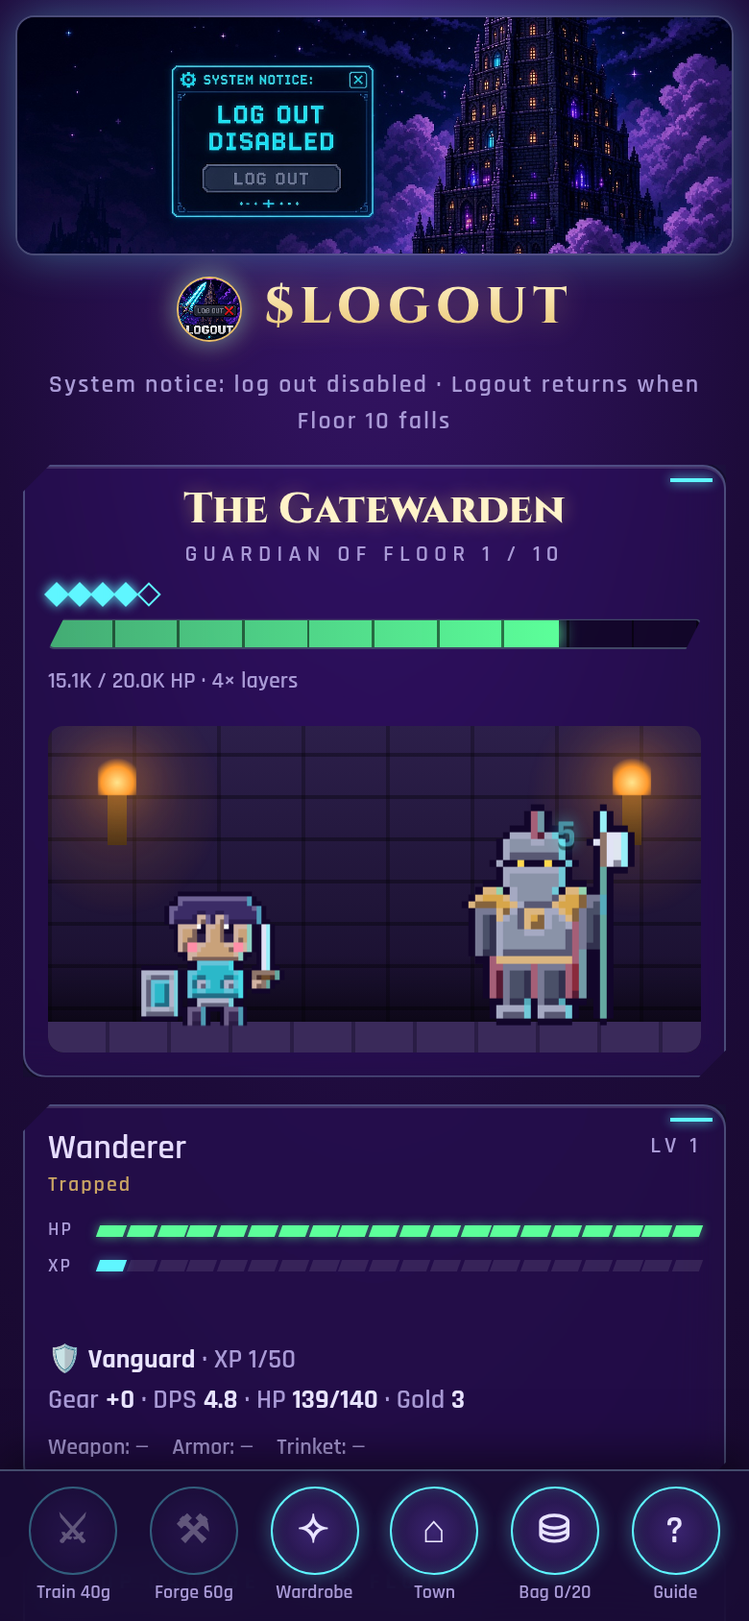
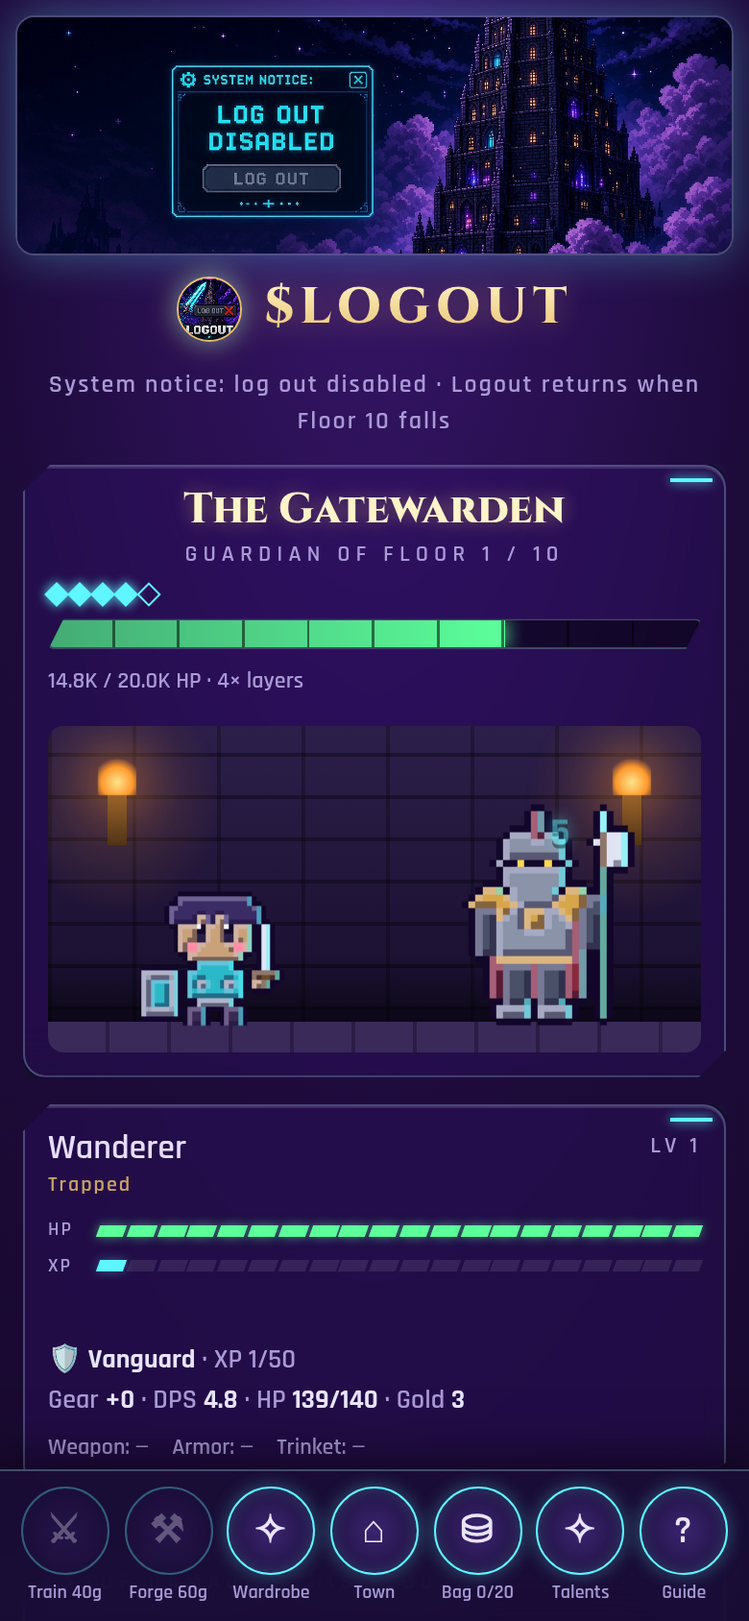
Talent trees: 3 branches per class, points per level, respec, save v5

diff --git a/js/main.js b/js/main.js
@@ -1,8 +1,9 @@
 import { effectsOf, CLASSES, newHero, heroDps, levelCost, gearCost, accrue, offlineProgress, applyXp, heroHp, heroMaxHp, isWorn, effectiveDps, buffsOf, bossName, fmt, fmtDur, xpToNext } from './game.js';
 import { makeBackend } from './storage.js';
-import { innCost, rest, shopStock, buy as shopBuy, soldOut, npcGrid } from './town.js';
+import { priceFor, innCost, rest, shopStock, buy as shopBuy, soldOut, npcGrid } from './town.js';
 import { sprite } from './sprites.js';
-import { isSpecialSlot } from './floors.js';
+import { isSpecialSlot, bossInfo } from './floors.js';
+import { treeOf, nodeById, canLearn, learn, freePoints, totalPoints, spentIn, respec, respecCost } from './talents.js';
 import { TRICKLE, trickleDrops, grantDrops, equipItem, salvageItem, salvageValue, rarityOf, statLabel, INV_SIZE, GEAR_SLOTS } from './loot.js';
 import { OFFLINE_CAP_HOURS, MAX_FLOOR } from '../config.js';
 import { bossSprite, bossIsBig, heroSprite } from './sprites.js';
@@ -43,6 +44,7 @@ async function boot() {
   $('maxf').textContent = MAX_FLOOR;
   be = await makeBackend(); save = migrateSave(await be.loadSave()); if (save) delete save.ctx; // live-only context, never trusted from storage
   if (!save) return showCreate();
+  { const f0 = (await be.getFloor()).floor, bi = bossInfo(f0); save.ctx = { element: bi.lootElement, special: isSpecialSlot(f0) }; } // offline maths sees the same floor context
   const p = offlineProgress(save, Date.now(), OFFLINE_CAP_HOURS), cap = p.cap, h0 = save.heroes[0];
   save.gold += p.gold; const ups = applyXp(save.heroes, p.xp); pending += p.damage;
   const offFloor = (await be.getFloor()).floor, trickled = trickleDrops(save, p.secs, offFloor, TRICKLE.offlineMax);
@@ -90,16 +92,16 @@ async function startGame(fresh = false) {
   floor = await be.getFloor(); log(`${save.heroes[0].name} awoke on Floor ${floor.floor}. The guardian stirs.`); log('System notice: log out disabled.');
   if (fresh) { notice('Log out disabled'); setTimeout(() => notice(`Floor ${floor.floor} is open`), 900); } // no replayed notices on reload
   $('lvl').onclick = () => buy('level'); $('gear').onclick = () => buy('gear'); $('wardrobeBtn').onclick = openWardrobe;
-  $('townBtn').onclick = openTown; $('helpBtn').onclick = () => tourShow(0); $('bagBtn').onclick = openBag; placeDock();
+  $('townBtn').onclick = openTown; $('helpBtn').onclick = () => tourShow(0); $('bagBtn').onclick = openBag; $('talBtn').onclick = () => { talSel = null; openTalents(); }; placeDock();
   setInterval(tick, 1000); setInterval(sync, 5000); render(); renderLb();
   if (!save.tutorialSeen) startTour(); // right after creation, and once for older saves
 }
 function tick() {
-  save.ctx = { bossPct: floor.maxHp ? floor.hp / floor.maxHp : 1, special: isSpecialSlot(floor.floor), sessionSecs: (Date.now() - sessionStart) / 1000 };
+  save.ctx = { bossPct: floor.maxHp ? floor.hp / floor.maxHp : 1, special: isSpecialSlot(floor.floor), element: bossInfo(floor.floor).lootElement, sessionSecs: (Date.now() - sessionStart) / 1000 };
   const p = accrue(save, Date.now(), OFFLINE_CAP_HOURS), fx = effectsOf(save.heroes[0]);
   if (fx.has('whisper') && Date.now() - lastWhisper > 120000) { lastWhisper = Date.now(); log(WHISPERS[Math.floor(Math.random() * WHISPERS.length)], '#b9a8ff'); }
   save.gold += p.gold; recent.dmg += p.damage; recent.gold += p.gold; recent.xp += p.xp; pending += p.damage; floor.hp = Math.max(0, floor.hp - p.damage);
-  if (applyXp(save.heroes, p.xp).length) { log(`System notice: level ${save.heroes[0].level} reached.`); notice(`Level ${save.heroes[0].level} reached`); }
+  if (applyXp(save.heroes, p.xp).length) { log(`System notice: level ${save.heroes[0].level} reached.`); notice(`Level ${save.heroes[0].level} reached · +1 talent point`); }
   for (const it of trickleDrops(save, p.secs, floor.floor, p.secs > 2 ? TRICKLE.offlineMax : Infinity)) { const R = rarityOf(it.rarity); log(`Loot · ${R.label} ${it.name}${it.salvaged ? ' (bag full: salvaged)' : ''}`, R.color); notice(`${R.label} find — ${it.name}`, R.color); }
   if (p.damage > 0) { hits++; if (fx.has('tenth') && hits % 10 === 0) { hitFx(p.damage); log('The Tenth Bell rings — double hit.', '#7ff6ff'); } hitFx(p.damage); } $('boss').classList.add('hit'); setTimeout(() => $('boss').classList.remove('hit'), 120); render();
 }
@@ -141,6 +143,7 @@ function render() {
   H('stats').innerHTML = `${CLASSES[h.cls].icon} <b>${h.cls}</b> · XP ${h.xp}/${xpToNext(h.level)}<br>Gear <b>+${h.gear}</b> · DPS <b>${effectiveDps(save).toFixed(1)}</b> · HP <b>${Math.round(heroHp(h))}/${heroMaxHp(h)}</b> · Gold <b>${fmt(save.gold)}</b>`;
   H('lvlL').textContent = `Train ${fmt(levelCost(h))}g`; $('lvl').title = `Train: +1 level for ${fmt(levelCost(h))} gold`; $('lvl').disabled = save.gold < levelCost(h);
   H('equipped').innerHTML = GEAR_SLOTS.map(s => { const it = h.equip?.[s]; return `<span class="eq" style="${it ? `color:${rarityOf(it.rarity).color}` : ''}">${s[0].toUpperCase() + s.slice(1)}: ${it ? esc(it.name) : '—'}</span>`; }).join('');
+  { const fp = freePoints(h); const tb = $('talBadge'); if (tb.hidden !== !(fp > 0)) tb.hidden = !(fp > 0); if (tb.textContent !== String(fp)) tb.textContent = fp; }
   H('bagL').textContent = `Bag ${save.inv.length}/${INV_SIZE}`; $('gear').title = 'Forge: temper your weapon, +15% damage per tier';
   H('gearL').textContent = `Forge ${fmt(gearCost(h))}g`; $('gear').disabled = save.gold < gearCost(h);
 }
@@ -162,7 +165,7 @@ function openTown() {
   const left = st.endsAt - now; $('shopTimer').textContent = `New stock in ${fmtDur(left / 1000)}`;
   $('shopList').innerHTML = st.items.map((it, i) => { const R = it.item ? rarityOf(it.item.rarity) : null, out = soldOut(save, st, i);
     return `<div class="srow" ${R ? `style="--rc:${R.color}"` : ''}><div><b style="${R ? `color:${R.color}` : ''}">${esc(it.name)}</b><small>${R ? `${R.label} ${it.item.slot} · ${Object.entries(it.item.stats).map(([k, v]) => statLabel(k, v)).join(' · ')}` : esc(it.desc)}</small></div>
-      <button data-i="${i}" ${out || save.gold < it.price ? 'disabled' : ''}>${out ? 'Sold' : `${fmt(it.price)}g`}</button></div>`; }).join('');
+      <button data-i="${i}" ${out || save.gold < priceFor(save, it) ? 'disabled' : ''}>${out ? 'Sold' : `${fmt(priceFor(save, it))}g`}</button></div>`; }).join('');
   $('shopList').onclick = async e => { const btn = e.target.closest('button[data-i]'); if (!btn) return; const got = shopBuy(save, f, Date.now(), +btn.dataset.i);
     if (got) { log(`Bought ${got}.`); notice(`Bought · ${got}`); await be.saveSave(save); render(); } openTown(); };
   $('townGold').textContent = `Gold ${fmt(save.gold)}`;
@@ -217,3 +220,22 @@ const dockMQ = matchMedia('(max-width: 640px)'), dockHome = document.createComme
 function placeDock() { const d = $('dock'); if (dockMQ.matches) { if (d.parentNode !== document.body) { d.replaceWith(dockHome); document.body.append(d); } } else if (dockHome.parentNode) dockHome.replaceWith(d); }
 dockMQ.addEventListener('change', placeDock);
 boot();
+
+// ---- Talents: glass-HUD tree, tap a node for its tooltip, Learn / Respec.
+let talSel = null;
+function openTalents() {
+  const h = save.heroes[0], fp = freePoints(h), f = floor.floor, rc = respecCost(h, f);
+  $('talPts').textContent = `· ${h.cls} · ${fp} point${fp === 1 ? '' : 's'} free · ${totalPoints(h)} total`;
+  $('talTree').innerHTML = treeOf(h.cls).map(b => `<section class="tbranch"><h3>${esc(b.name)} <small>${spentIn(h, b.id)} pts</small></h3><p class="sub">${esc(b.blurb)}</p>${b.nodes.map(n => {
+    const r = h.talents?.[n.id] || 0, why = canLearn(h, n.id), gated = why && why.startsWith('needs');
+    return `<button class="tnode ${r >= n.max ? 'max' : ''} ${gated ? 'gated' : ''} ${!why ? 'can' : ''} ${n.capstone ? 'cap' : ''} ${talSel === n.id ? 'sel' : ''}" data-id="${n.id}" aria-label="${esc(n.name)} ${r}/${n.max}"><span>${esc(n.name)}</span><b>${r}/${n.max}</b></button>`; }).join('')}</section>`).join('');
+  const n = talSel && nodeById(talSel);
+  if (n) { const r = h.talents?.[n.id] || 0, why = canLearn(h, n.id);
+    $('talTip').innerHTML = `<b>${esc(n.name)}</b>${n.capstone ? ' <small class="capt">capstone</small>' : ''} <small>rank ${r}/${n.max}${n.req ? ` · needs ${n.req} pts in branch` : ''}</small><p>${esc(n.desc)}</p><button id="talLearn" class="cta" ${why ? 'disabled' : ''}>${why ? esc(why) : 'Learn'}</button>`;
+    $('talLearn').onclick = async () => { if (learn(h, n.id)) { log(`System notice: talent learned — ${n.name} (${(h.talents[n.id])}/${n.max}).`); await be.saveSave(save); render(); openTalents(); } };
+  } else $('talTip').innerHTML = '<p class="sub">Tap a node to see what it does. Later nodes unlock after you spend points in that branch.</p>';
+  $('talRespec').textContent = rc ? `Respec · ${fmt(rc)}g` : 'Respec · free once'; $('talRespec').disabled = save.gold < rc || !Object.keys(h.talents || {}).length;
+  $('talRespec').onclick = async () => { if (respec(save, f)) { log('System notice: talents reset. All points refunded.'); talSel = null; await be.saveSave(save); render(); openTalents(); } };
+  $('talTree').onclick = e => { const b = e.target.closest('.tnode'); if (b) { talSel = b.dataset.id; openTalents(); } };
+  if (!$('talents').open) $('talents').showModal();
+}

diff --git a/js/talents.js b/js/talents.js
@@ -1,0 +1,108 @@
+// Talent trees: 3 classes × 3 branches × 5 nodes. Pure (no DOM). Effects feed the same stat pipeline as gear and Unique weapons (see talentBonus).
+import { baseHp } from './floors.js';
+// eff: per-rank stat contributions. Keys: dpsPct goldPct xpPct capH hpPct drainPct regenPct layerPct rallyPct innPct shopPct offlinePct
+//      lootPct salvagePct doublePct elementPct restedPct restedMulPct bonusPts lowMulPct
+const N = (id, name, desc, max, eff) => ({ id, name, desc, max, eff });
+const B = (id, name, blurb, nodes) => ({ id, name, blurb, nodes: nodes.map((n, i) => ({ ...n, tier: i, req: i * 2, capstone: i === nodes.length - 1 })) });
+export const TREES = {
+  Vanguard: [
+    B('bulwark', 'Bulwark', 'Stand. Endure. Out-wait the tower.', [
+      N('vg-thick', 'Thickened Hide', 'System notice: max HP +6% per rank.', 3, { hpPct: 6 }),
+      N('vg-brace', 'Braced Stance', 'System notice: the guardian drains you 6% slower per rank.', 3, { drainPct: 6 }),
+      N('vg-second', 'Second Wind', 'System notice: recover 0.6% max HP per minute per rank.', 2, { regenPct: 0.6 }),
+      N('vg-oath', 'Shield Oath', 'System notice: max HP +8% and drain −5% per rank.', 2, { hpPct: 8, drainPct: 5 }),
+      N('vg-iron', 'Iron Will', 'Capstone. System notice: worn down only cuts DPS to 75%.', 1, { lowMulPct: 25 }),
+    ]),
+    B('warlord', 'Warlord', 'Command the shared fight.', [
+      N('wl-cleave', 'Layer Cleave', 'System notice: +8% DPS on the guardian\'s last HP layer per rank.', 3, { layerPct: 8 }),
+      N('wl-rally', 'Rallying Cry', 'System notice: +3% DPS per rank. Others fight harder beside you.', 3, { rallyPct: 3 }),
+      N('wl-banner', 'War Banner', 'System notice: +4% gold and XP per rank from the shared kill.', 2, { goldPct: 4, xpPct: 4 }),
+      N('wl-sunder', 'Sunder Plate', 'System notice: +5% DPS per rank.', 2, { dpsPct: 5 }),
+      N('wl-breaker', 'Floor Breaker', 'Capstone. System notice: +30% DPS on the last HP layer.', 1, { layerPct: 30 }),
+    ]),
+    B('quartermaster', 'Quartermaster', 'An army marches on its coin.', [
+      N('qm-purse', 'Heavy Purse', 'System notice: +5% gold per rank.', 3, { goldPct: 5 }),
+      N('qm-haggle', 'Haggler', 'System notice: shop prices −5% per rank.', 3, { shopPct: 5 }),
+      N('qm-inn', 'Regular at the Inn', 'System notice: inn costs −10% per rank.', 2, { innPct: 10 }),
+      N('qm-supply', 'Supply Lines', 'System notice: Well Rested lasts +15% longer per rank.', 2, { restedPct: 15 }),
+      N('qm-ledger', 'Golden Ledger', 'Capstone. System notice: +20% gold, salvage +25%.', 1, { goldPct: 20, salvagePct: 25 }),
+    ]),
+  ],
+  Blade: [
+    B('edge', 'Edge', 'Faster. Sharper. Again.', [
+      N('ed-hone', 'Honed Steel', 'System notice: +5% DPS per rank.', 3, { dpsPct: 5 }),
+      N('ed-flurry', 'Flurry', 'System notice: 3% of hits land twice per rank.', 3, { doublePct: 3 }),
+      N('ed-weak', 'Find the Seam', 'System notice: +8% DPS on the last HP layer per rank.', 2, { layerPct: 8 }),
+      N('ed-blur', 'Blur', 'System notice: +6% DPS per rank.', 2, { dpsPct: 6 }),
+      N('ed-cuts', 'Thousand Cuts', 'Capstone. System notice: 15% of hits land twice.', 1, { doublePct: 15 }),
+    ]),
+    B('shadowstep', 'Shadowstep', 'Fight on while you are gone.', [
+      N('sh-idle', 'Idle Hands', 'System notice: +5% gains while offline per rank.', 3, { offlinePct: 5 }),
+      N('sh-vigil', 'Long Vigil', 'System notice: +1h offline cap per rank.', 3, { capH: 1 }),
+      N('sh-quiet', 'Quiet Breathing', 'System notice: drain −5% per rank.', 2, { drainPct: 5 }),
+      N('sh-ghost', 'Ghost Shift', 'System notice: +2h offline cap per rank.', 2, { capH: 2 }),
+      N('sh-phantom', 'Phantom Watch', 'Capstone. System notice: +20% gains while offline.', 1, { offlinePct: 20 }),
+    ]),
+    B('plunder', 'Plunder', 'Everything the tower drops is yours.', [
+      N('pl-eye', 'Keen Eye', 'System notice: +6% gear drop chance per rank.', 3, { lootPct: 6 }),
+      N('pl-scrap', 'Scrapper', 'System notice: salvage pays +10% per rank.', 3, { salvagePct: 10 }),
+      N('pl-pocket', 'Deep Pockets', 'System notice: +4% gold per rank.', 2, { goldPct: 4 }),
+      N('pl-fence', 'Black Market', 'System notice: shop prices −6% per rank.', 2, { shopPct: 6 }),
+      N('pl-sense', 'Treasure Sense', 'Capstone. System notice: +25% gear drop chance.', 1, { lootPct: 25 }),
+    ]),
+  ],
+  Arcanist: [
+    B('ember', 'Ember', 'Burn the guardian down to its element.', [
+      N('em-spark', 'Spark', 'System notice: +5% DPS per rank.', 3, { dpsPct: 5 }),
+      N('em-attune', 'Attunement', 'System notice: +8% DPS per rank when your weapon\'s element matches the guardian\'s.', 3, { elementPct: 8 }),
+      N('em-kindle', 'Kindle', 'System notice: +6% DPS per rank.', 2, { dpsPct: 6 }),
+      N('em-sear', 'Sear the Layer', 'System notice: +8% DPS on the last HP layer per rank.', 2, { layerPct: 8 }),
+      N('em-wild', 'Wildfire', 'Capstone. System notice: +30% DPS when your weapon\'s element matches.', 1, { elementPct: 30 }),
+    ]),
+    B('ward', 'Ward', 'Light that mends.', [
+      N('wd-mend', 'Mending Glyph', 'System notice: recover 0.6% max HP per minute per rank.', 3, { regenPct: 0.6 }),
+      N('wd-dream', 'Lucid Dreams', 'System notice: Well Rested lasts +15% longer per rank.', 3, { restedPct: 15 }),
+      N('wd-veil', 'Veil', 'System notice: max HP +8% per rank.', 2, { hpPct: 8 }),
+      N('wd-calm', 'Calm Mind', 'System notice: drain −6% per rank.', 2, { drainPct: 6 }),
+      N('wd-sanct', 'Sanctuary', 'Capstone. System notice: Well Rested is twice as strong (+30%).', 1, { restedMulPct: 100 }),
+    ]),
+    B('scholar', 'Scholar', 'Knowledge compounds.', [
+      N('sc-study', 'Study', 'System notice: +5% XP per rank.', 3, { xpPct: 5 }),
+      N('sc-margin', 'Marginalia', 'System notice: +1 talent point per rank.', 2, { bonusPts: 1 }),
+      N('sc-tutor', 'Tutor', 'System notice: +6% XP per rank.', 3, { xpPct: 6 }),
+      N('sc-thesis', 'Thesis', 'System notice: +1 talent point and +4% DPS per rank.', 2, { bonusPts: 1, dpsPct: 4 }),
+      N('sc-arch', 'Archivist', 'Capstone. System notice: +25% XP.', 1, { xpPct: 25 }),
+    ]),
+  ],
+};
+export const KEYS = ['dpsPct', 'goldPct', 'xpPct', 'capH', 'hpPct', 'drainPct', 'regenPct', 'layerPct', 'rallyPct', 'innPct', 'shopPct', 'offlinePct', 'lootPct', 'salvagePct', 'doublePct', 'elementPct', 'restedPct', 'restedMulPct', 'bonusPts', 'lowMulPct'];
+const ALL = Object.values(TREES).flatMap(bs => bs.flatMap(b => b.nodes.map(n => ({ ...n, branch: b.id }))));
+export const nodeById = id => ALL.find(n => n.id === id);
+export const treeOf = cls => TREES[cls] || [];
+const ranks = h => h?.talents || {};
+/** Summed talent effects for a hero. */
+export function talentBonus(h) {
+  const b = Object.fromEntries(KEYS.map(k => [k, 0]));
+  for (const [id, r] of Object.entries(ranks(h))) { const n = nodeById(id); if (n && r > 0) for (const [k, v] of Object.entries(n.eff)) b[k] += v * Math.min(r, n.max); }
+  return b;
+}
+export const spentIn = (h, branchId) => Object.entries(ranks(h)).reduce((s, [id, r]) => s + (nodeById(id)?.branch === branchId ? r : 0), 0);
+export const spent = h => Object.values(ranks(h)).reduce((a, b) => a + b, 0);
+/** 1 point per level from level 2, plus Scholar bonus points. */
+export const totalPoints = h => Math.max(0, (h.level || 1) - 1) + talentBonus(h).bonusPts;
+export const freePoints = h => totalPoints(h) - spent(h);
+export function canLearn(h, id) {
+  const n = nodeById(id); if (!n) return 'unknown';
+  if (!treeOf(h.cls).some(b => b.id === n.branch)) return 'other class';
+  const r = ranks(h)[id] || 0; if (r >= n.max) return 'max rank';
+  if (freePoints(h) < 1) return 'no points';
+  if (spentIn(h, n.branch) < n.req) return `needs ${n.req} points in branch`;
+  return null;
+}
+export function learn(h, id) { if (canLearn(h, id)) return false; h.talents = { ...ranks(h), [id]: (ranks(h)[id] || 0) + 1 }; return true; }
+export const respecCost = (h, floor) => (h.respecs || 0) === 0 ? 0 : Math.round(150 * Math.sqrt(baseHp(floor) / baseHp(1)));
+/** Refund every point. First respec is free; then gold scaled by floor. */
+export function respec(save, floor) {
+  const h = save.heroes[0], c = respecCost(h, floor); if (save.gold < c || spent(h) === 0) return false;
+  save.gold -= c; h.talents = {}; h.respecs = (h.respecs || 0) + 1; return true;
+}

diff --git a/js/game.js b/js/game.js
@@ -6,6 +6,8 @@ export const CLASSES = {
 };
 // Boss names, HP curve and the 100-floor plan live in floors.js.
 export { floorBossHp, bossName, bossInfo } from './floors.js';
+import { talentBonus } from './talents.js';
+export { talentBonus };
 
 export function newHero(name, cls) {
   if (!CLASSES[cls]) throw new Error('bad class');
@@ -21,9 +23,10 @@ export function gearBonus(h) {
 /** Special effects of equipped Unique items (see UNIQUES in loot.js). */
 export const effectsOf = h => { const w = h?.equip?.weapon; return w?.rarity === 'unique' ? new Set([w.ability.id, w.drawback.id]) : new Set(); };
 export const FX = { tenthMul: 1.1, heavyMul: 0.95, lastLayer: { below: 0.2, mul: 1.3 }, lifesteal: 0.65, drain: 1.2, steadyLowMul: 0.85, hearthHp: 0.5, momentum: { perMin: 0.01, max: 0.3 }, milestoneMul: 1.5 };
-export const heroDps = h => { const c = CLASSES[h.cls], g = gearBonus(h), e = effectsOf(h); return +((c.atk * c.spd * (1 + 0.25 * (h.level - 1)) + g.dps) * (1 + 0.15 * h.gear) * (1 + g.dpsPct / 100) * (e.has('tenth') ? FX.tenthMul : 1) * (e.has('heavy') ? FX.heavyMul : 1)).toFixed(3); };
-const goldMul = heroes => 1 + gearBonus(heroes[0]).goldPct / 100, xpMul = heroes => 1 + gearBonus(heroes[0]).xpPct / 100;
-export const offlineCap = (heroes, base = 12) => base + gearBonus(heroes[0]).capH;
+export const heroDps = h => { const c = CLASSES[h.cls], g = gearBonus(h), e = effectsOf(h); return +((c.atk * c.spd * (1 + 0.25 * (h.level - 1)) + g.dps) * (1 + 0.15 * h.gear) * (1 + g.dpsPct / 100) * talentDpsMul(h) * (e.has('tenth') ? FX.tenthMul : 1) * (e.has('heavy') ? FX.heavyMul : 1)).toFixed(3); };
+const talentDpsMul = h => { const t = talentBonus(h); return (1 + (t.dpsPct + t.rallyPct) / 100) * (1 + t.doublePct / 100); };
+const goldMul = heroes => 1 + (gearBonus(heroes[0]).goldPct + talentBonus(heroes[0]).goldPct) / 100, xpMul = heroes => 1 + (gearBonus(heroes[0]).xpPct + talentBonus(heroes[0]).xpPct) / 100;
+export const offlineCap = (heroes, base = 12) => base + gearBonus(heroes[0]).capH + talentBonus(heroes[0]).capH;
 export const xpToNext = lvl => Math.round(50 * Math.pow(1.4, lvl - 1));
 export const levelCost = h => Math.round(40 * Math.pow(1.5, h.level - 1));
 export const gearCost = h => Math.round(60 * Math.pow(1.6, h.gear));
@@ -42,23 +45,29 @@ export function computeProgress(heroes, lastTick, now, capHours = 12) {
 export const DRAIN_SECS = 1030;            // full → empty in ~17 min; worn down (30%) after ~12 min of fighting
 export const LOW_HP = 0.3, LOW_MUL = 0.5;  // worn-down threshold and DPS penalty
 export const RESTED = { secs: 1800, mul: 1.15 }, ELIXIR = { secs: 600, mul: 1.25 };
-export const heroMaxHp = h => Math.round(CLASSES[h.cls].hp * (1 + 0.1 * (h.level - 1)));
+export const heroMaxHp = h => Math.round(CLASSES[h.cls].hp * (1 + 0.1 * (h.level - 1)) * (1 + talentBonus(h).hpPct / 100));
+/** Well Rested gold/XP multiplier (Sanctuary talent strengthens it). */
+export const restedMul = h => 1 + (RESTED.mul - 1) * (1 + talentBonus(h).restedMulPct / 100);
 export const heroHp = h => Math.min(heroMaxHp(h), h.hp ?? heroMaxHp(h));
 export const isWorn = h => heroHp(h) <= LOW_HP * heroMaxHp(h) + 1e-9;
 export const buffsOf = save => save.buffs || (save.buffs = { rested: 0, elixir: 0, vigil: 0 });
 /** DPS right now, including the low-HP penalty and an active elixir. */
-const lowMulOf = h => effectsOf(h).has('steady') ? FX.steadyLowMul : LOW_MUL;
+const lowMulOf = h => Math.max(effectsOf(h).has('steady') ? FX.steadyLowMul : LOW_MUL, LOW_MUL + talentBonus(h).lowMulPct / 100);
 /** Situational Unique multipliers. save.ctx is transient live context set by the UI ({ bossPct, special, sessionSecs }); offline it is absent. */
 export const layerMul = save => { const e = effectsOf(save.heroes[0]), c = save.ctx || {}; let m = 1;
   if (e.has('lastLayer') && (c.bossPct ?? 1) < FX.lastLayer.below) m *= FX.lastLayer.mul;
   if (e.has('momentum')) m *= 1 + Math.min(FX.momentum.max, (c.sessionSecs || 0) / 60 * FX.momentum.perMin);
   if (e.has('milestone') && c.special) m *= FX.milestoneMul;
+  const t = talentBonus(save.heroes[0]), w = save.heroes[0].equip?.weapon;
+  if (t.layerPct && (c.bossPct ?? 1) < FX.lastLayer.below) m *= 1 + t.layerPct / 100;
+  if (t.elementPct && w && c.element && w.element === c.element) m *= 1 + t.elementPct / 100;
   return m; };
 export const effectiveDps = save => totalDps(save.heroes) * (isWorn(save.heroes[0]) ? lowMulOf(save.heroes[0]) : 1) * (buffsOf(save).elixir > 0 ? ELIXIR.mul : 1) * layerMul(save);
 /** Simulate `secs` of fighting (live or offline: same rules). Splits time at HP-threshold and buff-expiry breakpoints.
  *  Mutates hero HP and buff timers; returns float { dmg, gold, xp, lowSecs }. */
 export function simulate(save, secs) {
-  const h = save.heroes[0], max = heroMaxHp(h), b = buffsOf(save), e = effectsOf(h), drain = max / DRAIN_SECS * (e.has('lifesteal') ? FX.lifesteal : 1) * (e.has('drain') ? FX.drain : 1);
+  const h = save.heroes[0], max = heroMaxHp(h), b = buffsOf(save), e = effectsOf(h), tb = talentBonus(h), raw = max / DRAIN_SECS * (e.has('lifesteal') ? FX.lifesteal : 1) * (e.has('drain') ? FX.drain : 1);
+  const drain = Math.max(raw * 0.1, raw * (1 - tb.drainPct / 100) - tb.regenPct / 100 * max / 60); // talents: slower drain + regen
   const base = totalDps(save.heroes) * layerMul(save), lowMul = lowMulOf(h), hearth = e.has('hearth');
   const gM = goldMul(save.heroes), xM = xpMul(save.heroes);
   let hp = heroHp(h), t = Math.max(0, secs), dmg = 0, gold = 0, xp = 0, lowSecs = 0;
@@ -70,7 +79,7 @@ export function simulate(save, secs) {
     if (b.rested > 0 && restedTicks) seg = Math.min(seg, b.rested);
     if (b.elixir > 0) seg = Math.min(seg, b.elixir);
     if (seg <= 1e-9) { hp -= 1e-7; continue; } // sitting exactly on a threshold: step past it
-    const d = base * (low ? lowMul : 1) * (b.elixir > 0 ? ELIXIR.mul : 1) * seg, r = b.rested > 0 ? RESTED.mul : 1;
+    const d = base * (low ? lowMul : 1) * (b.elixir > 0 ? ELIXIR.mul : 1) * seg, r = b.rested > 0 ? restedMul(h) : 1;
     dmg += d; gold += d * 0.1 * gM * r; xp += d * 0.05 * xM * r; if (low) lowSecs += seg;
     hp = Math.max(1, hp - drain * seg); if (restedTicks) b.rested = Math.max(0, b.rested - seg); b.elixir = Math.max(0, b.elixir - seg); t -= seg;
   }
@@ -83,16 +92,17 @@ const settle = (save, s) => { // float → integer payouts with fractional carry
   return out;
 };
 /** Live accrual with fractional carry (fixes per-tick flooring that kept low-DPS heroes at 0 gold/XP). */
-export function accrue(save, now, capHours = 12) {
+export function accrue(save, now, capHours = 12, offline = false) {
   const raw = Math.max(0, (now - save.lastTick) / 1000), secs = Math.min(raw, capHours * 3600);
-  const s = simulate(save, secs), o = settle(save, s); save.lastTick = now;
+  const s = simulate(save, secs), om = offline ? 1 + talentBonus(save.heroes[0]).offlinePct / 100 : 1; s.dmg *= om; s.gold *= om; s.xp *= om; // Shadowstep: offline efficiency
+  const o = settle(save, s); save.lastTick = now;
   return { secs, capped: raw > secs, damage: o.dmg, gold: o.gold, xp: o.xp, lowSecs: s.lowSecs };
 }
 /** Offline return: same rules as live play. A Scroll of Vigil adds 4h to the cap once (consumed only if the extra time was needed). */
 export function offlineProgress(save, now, baseCapHours = 12) {
   const b = buffsOf(save), cap = offlineCap(save.heroes, baseCapHours) + (b.vigil || 0), raw = Math.max(0, (now - save.lastTick) / 1000);
   const vigilUsed = b.vigil > 0 && raw > (cap - b.vigil) * 3600; if (vigilUsed) b.vigil = 0;
-  const r = accrue(save, now, cap); return { ...r, cap, vigilUsed };
+  const r = accrue(save, now, cap, true); return { ...r, cap, vigilUsed };
 }
 export function applyXp(heroes, xp) {
   if (!heroes.length) return [];

diff --git a/index.html b/index.html
@@ -22,7 +22,7 @@
   </div>
   <div class="row">
    <div class="panel win"><div class="hudtop"><div id="hname2"></div><div class="lv" id="hlv"></div></div><div class="segrow"><span>HP</span><div class="seg" id="hhp"></div></div><div class="segrow"><span>XP</span><div class="seg xp" id="hxp"></div></div><div class="buffs" id="buffs"></div><div id="stats"></div><div id="equipped" class="equipped"></div>
-    <nav class="btns" id="dock" aria-label="Actions"><div class="act"><button id="lvl" class="rb" title="Train" aria-label="Train">⚔</button><span id="lvlL">Train</span></div><div class="act"><button id="gear" class="rb" title="Forge" aria-label="Forge">⚒</button><span id="gearL">Forge</span></div><div class="act"><button id="wardrobeBtn" class="rb" title="Wardrobe" aria-label="Wardrobe">✧</button><span>Wardrobe</span></div><div class="act"><button id="townBtn" class="rb" title="Town" aria-label="Town">⌂</button><span>Town</span></div><div class="act"><button id="bagBtn" class="rb" title="Bag" aria-label="Bag">⛁</button><span id="bagL">Bag</span></div><div class="act"><button id="helpBtn" class="rb" title="How to play" aria-label="How to play">?</button><span>Guide</span></div></nav></div>
+    <nav class="btns" id="dock" aria-label="Actions"><div class="act"><button id="lvl" class="rb" title="Train" aria-label="Train">⚔</button><span id="lvlL">Train</span></div><div class="act"><button id="gear" class="rb" title="Forge" aria-label="Forge">⚒</button><span id="gearL">Forge</span></div><div class="act"><button id="wardrobeBtn" class="rb" title="Wardrobe" aria-label="Wardrobe">✧</button><span>Wardrobe</span></div><div class="act"><button id="townBtn" class="rb" title="Town" aria-label="Town">⌂</button><span>Town</span></div><div class="act"><button id="bagBtn" class="rb" title="Bag" aria-label="Bag">⛁</button><span id="bagL">Bag</span></div><div class="act"><button id="talBtn" class="rb" title="Talents" aria-label="Talents">✧<b id="talBadge" class="badge" hidden></b></button><span>Talents</span></div><div class="act"><button id="helpBtn" class="rb" title="How to play" aria-label="How to play">?</button><span>Guide</span></div></nav></div>
    <div class="panel win"><h2>Top Damage · this floor</h2><ol id="lb"></ol></div>
   </div>
   <div class="panel win"><h2>Chronicle</h2><div class="log" id="log"></div></div>
@@ -38,5 +38,6 @@
  </div><button onclick="this.closest('dialog').close()">Leave town</button></dialog>
 <dialog id="bag" class="win"><h2>Bag <small id="bagCount"></small></h2><div class="bagwrap"><div><div class="eqrow" id="eqrow"></div><div class="grid" id="bagGrid"></div></div><div class="detail" id="bagDetail"><p class="sub">Select an item to compare it with what you have equipped.</p></div></div><button onclick="this.closest('dialog').close()">Close</button></dialog>
 <div id="notices"></div><div id="cleared"><span>FLOOR CLEARED</span><small id="clearedSub"></small></div>
+<dialog id="talents" class="win"><h2>Talents <small id="talPts"></small></h2><div class="taltree" id="talTree"></div><div class="taltip" id="talTip"></div><div class="talbtns"><button id="talRespec"></button><button onclick="this.closest('dialog').close()">Close</button></div></dialog>
 <dialog id="away" class="win"><h2>System notice · while you were away</h2><div id="awaytxt"></div><button onclick="this.closest('dialog').close()">Resume</button></dialog>
 <script type="module" src="js/main.js"></script></body></html>

diff --git a/js/town.js b/js/town.js
@@ -2,12 +2,15 @@
 import { heroMaxHp, heroHp, buffsOf, effectsOf, RESTED, ELIXIR } from './game.js';
 import { rng, baseHp, bossInfo } from './floors.js';
 import { rollItem, salvageValue, INV_SIZE } from './loot.js';
+import { talentBonus } from './talents.js';
 import { canvas, shadeShape } from './bosses.js';
 const tier = f => Math.sqrt(baseHp(f) / baseHp(1)); // price scale per floor
-export const innCost = (f, save) => Math.round(30 * tier(f) * (save && effectsOf(save.heroes[0]).has('innTax') ? 1.25 : 1));
+export const innCost = (f, save) => Math.round(30 * tier(f) * (save && effectsOf(save.heroes[0]).has('innTax') ? 1.25 : 1) * (save ? 1 - talentBonus(save.heroes[0]).innPct / 100 : 1));
+/** Shop price after talent discounts. */
+export const priceFor = (save, it) => Math.round(it.price * (save ? 1 - talentBonus(save.heroes[0]).shopPct / 100 : 1));
 export function rest(save, floor) {
   const c = innCost(floor, save); if (save.gold < c) return false;
-  save.gold -= c; const h = save.heroes[0]; h.hp = heroMaxHp(h); buffsOf(save).rested = RESTED.secs; return true;
+  save.gold -= c; const h = save.heroes[0]; h.hp = heroMaxHp(h); buffsOf(save).rested = Math.round(RESTED.secs * (1 + talentBonus(h).restedPct / 100)); return true;
 }
 export const SHOP_BUCKET_MS = 4 * 3600e3; // stock rotates every 4 hours
 export const POTION_HEAL = 0.5, VIGIL_HOURS = 4;
@@ -25,14 +28,14 @@ export function shopStock(floor, now) {
 }
 /** Buy stock index i. Gear can be bought once per rotation. Returns a short result string or null if not possible. */
 export function buy(save, floor, now, i) {
-  const st = shopStock(floor, now), it = st.items[i]; if (!it || save.gold < it.price) return null;
+  const st = shopStock(floor, now), it = st.items[i]; if (!it || save.gold < priceFor(save, it)) return null;
   if (!save.shop || save.shop.floor !== floor || save.shop.bucket !== st.bucket) save.shop = { floor, bucket: st.bucket, bought: [] };
   const h = save.heroes[0], b = buffsOf(save);
   if (it.kind === 'gear') { if (save.shop.bought.includes(i) || save.inv.length >= INV_SIZE) return null; save.inv.push({ ...it.item }); save.shop.bought.push(i); }
   if (it.kind === 'potion') { if (heroHp(h) >= heroMaxHp(h)) return null; h.hp = Math.min(heroMaxHp(h), heroHp(h) + POTION_HEAL * heroMaxHp(h)); }
   if (it.kind === 'elixir') b.elixir = ELIXIR.secs;
   if (it.kind === 'vigil') { if (b.vigil > 0) return null; b.vigil = VIGIL_HOURS; }
-  save.gold -= it.price; return it.name;
+  save.gold -= priceFor(save, it); return it.name;
 }
 export const soldOut = (save, st, i) => st.items[i].kind === 'gear' && save.shop?.bucket === st.bucket && save.shop?.floor === st.floor && save.shop.bought.includes(i);
 // ---- NPC sprites (original): a stout innkeeper with apron and mug, a hooded peddler with an overloaded pack.

diff --git a/style.css b/style.css
@@ -142,3 +142,17 @@ header{padding-top:max(14px,env(safe-area-inset-top))}main{padding-left:max(12px
 @keyframes uglow{to{box-shadow:0 0 18px #ffd76a,inset 0 0 14px #7ff6ff88}}
 .item .ab{color:#5cff9a}.item .db{color:#ff9b7a}.item .lore{font-style:italic;color:#b9a8ff;font-size:12px;margin:4px 0}
 @media (prefers-reduced-motion:reduce){.uniq,.cell.ucell{animation:none}}
+
+/* Talents */
+.rb{position:relative}.badge{position:absolute;top:-4px;right:-4px;min-width:18px;height:18px;padding:0 4px;border-radius:9px;background:var(--gold);color:#1a0b33;font:700 11px/18px 'Rajdhani',sans-serif;box-shadow:0 0 8px var(--gold)}
+#talents{max-width:900px;width:95vw;max-height:90vh;overflow:auto}
+.taltree{display:grid;grid-template-columns:repeat(3,1fr);gap:12px}
+.tbranch{border:1px solid var(--line);border-radius:10px;padding:10px;background:rgba(10,4,24,.45);display:flex;flex-direction:column;gap:8px}
+.tbranch h3{margin:0;color:var(--cy);font-size:15px;letter-spacing:2px;text-transform:uppercase}.tbranch h3 small{color:var(--gold);float:right}.tbranch .sub{margin:0}
+.tnode{display:flex;justify-content:space-between;align-items:center;min-height:48px;margin:0;padding:6px 12px;border-radius:24px;border:1px solid var(--line);background:rgba(30,15,65,.6);text-align:left;position:relative}
+.tnode+.tnode::before{content:'';position:absolute;left:24px;top:-9px;height:8px;border-left:2px solid var(--line)}
+.tnode b{font-size:12px;color:var(--gold)}.tnode.can{border-color:var(--cy);box-shadow:0 0 10px #5ff6ff55}.tnode.max{border-color:var(--gold);background:rgba(80,60,10,.35)}
+.tnode.gated{opacity:.45}.tnode.cap{border-width:2px}.tnode.cap span::before{content:'★ ';color:var(--gold)}.tnode.sel{outline:2px solid #fff;outline-offset:1px}
+.taltip{margin:12px 0;padding:10px 12px;border:1px solid var(--cy);border-radius:10px;background:rgba(10,4,24,.6);min-height:64px}.taltip p{margin:6px 0}.taltip .capt{color:var(--gold)}
+.talbtns{display:flex;gap:10px;justify-content:flex-end}
+@media(max-width:640px){.taltree{grid-template-columns:1fr}#talents{width:calc(100vw - 16px)}.taltip{position:sticky;bottom:52px;background:rgba(22,10,48,.97);z-index:2;box-shadow:0 -8px 20px #0a0418}.talbtns{position:sticky;bottom:0;background:rgba(30,15,65,.95);padding:6px 0}.talbtns button{flex:1}}

diff --git a/js/loot.js b/js/loot.js
@@ -1,4 +1,5 @@
 // Loot: seeded, reproducible boss drops (stat gear + rare element cosmetics), inventory, equip and salvage. Pure (no DOM, no Math.random).
+import { talentBonus } from './talents.js';
 import { rng, baseHp, isSpecialSlot, bossInfo } from './floors.js';
 import { DROP_COSMETICS } from './cosmetics.js';
 export const INV_SIZE = 20;
@@ -108,11 +109,11 @@ export function rollDrops({ heroId = 'hero', floor, share, seq = 0, owned = [], 
   return { items, cosmetic, element };
 }
 /** Salvage gold for an item; Scrapper's Ledger (equipped) pays ×3. */
-export const salvageGold = (save, it) => salvageValue(it) * (uniqueFx(save).has('ledger') ? 3 : 1);
+export const salvageGold = (save, it) => Math.round(salvageValue(it) * (uniqueFx(save).has('ledger') ? 3 : 1) * (1 + talentBonus(save.heroes[0]).salvagePct / 100));
 export const salvageValue = it => Math.round(20 * Math.pow(RARITIES.findIndex(r => r.id === it.rarity) + 1, 2) * scale(it.floor));
 /** Apply one kill's drops to a v3 save. Returns { items, cosmetic, salvaged } (salvaged = auto-salvaged gold when the bag is full). */
 export function grantDrops(save, floor, share) {
-  const h = save.heroes[0], d = rollDrops({ heroId: h.id, floor, share, seq: save.lootSeq++, owned: save.progress.drops, ownedU: ownedUniqueNames(save), luck: uniqueFx(save).has('luck') ? 1.25 : 1 });
+  const h = save.heroes[0], d = rollDrops({ heroId: h.id, floor, share, seq: save.lootSeq++, owned: save.progress.drops, ownedU: ownedUniqueNames(save), luck: (uniqueFx(save).has('luck') ? 1.25 : 1) * (1 + talentBonus(h).lootPct / 100) });
   let salvaged = 0;
   for (const it of d.items) {
     if (it.rarity === 'unique') { save.inv.push(it); continue; } // never auto-salvaged (may exceed the bag)

diff --git a/js/cosmetics.js b/js/cosmetics.js
@@ -1,5 +1,5 @@
 // Cosmetics: catalog, unlock rules, save migration, layered sprite grids. Pure (no DOM). No stat effects.
-export const SAVE_VERSION = 4;
+export const SAVE_VERSION = 5;
 const I = (id, type, label, value, unlock = null, extra = {}) => ({ id, type, label, value, unlock, ...extra });
 export const CATALOG = [
   // skin tones
@@ -101,6 +101,11 @@ export function migrateSave(s) {
     s.buffs = s.buffs || { rested: 0, elixir: 0, vigil: 0 }; s.shop = s.shop || null;
     s.version = 4;
   }
+  if (s.version < 5) { // v5: talent trees (existing heroes get points for their level automatically: points = level − 1)
+    for (const h of s.heroes || []) { h.talents = h.talents || {}; h.respecs = h.respecs || 0; }
+    s.version = 5;
+  }
+  for (const h of s.heroes || []) h.look = { ...defaultLook(h.cls), ...(h.look || {}) }; // repair partial looks on any version
   return s;
 }
 export const titleOf = h => byId(h.look.title).value;

diff --git a/README.md b/README.md
@@ -1,7 +1,7 @@
 # $LOGOUT — idle tower prototype (v1)
 Static browser idle game: an auto-fighting hero climbs floors 1–10, chipping at a shared floor boss (other players simulated locally). Offline progress is computed from timestamps (capped at 12h). Saves go to localStorage.
 
-**Run locally:** `python3 -m http.server 8000` then open http://localhost:8000. Tests: `for t in offline cosmetics floors progress loot town loop unique; do node test/$t.test.mjs; done`; browser regression (needs playwright-core): `node test/e2e.play.mjs [url]` and `node test/e2e.buttons.mjs [url]`. Dev-only boss plan preview: `/preview-bosses.html`.
+**Run locally:** `python3 -m http.server 8000` then open http://localhost:8000. Tests: `for t in offline cosmetics floors progress loot town loop unique talents; do node test/$t.test.mjs; done`; browser regression (needs playwright-core): `node test/e2e.play.mjs [url]` and `node test/e2e.buttons.mjs [url]`. Dev-only boss plan preview: `/preview-bosses.html`.
 
 **Deploy:** no build step. *GitHub Pages:* push the repo, Settings → Pages → deploy from branch `main`, root. *Cloudflare Pages:* connect the repo, build command empty, output dir `/`.
 
@@ -10,3 +10,5 @@ Later: `js/storage.js` is the backend seam (add a Supabase backend with the same
 **Floors:** `js/floors.js` holds the 100-floor plan. Floors 1–9 are hand-made, special slots (10, 20 … 90 and 91–100) are never generated and currently hold hand-made `placeholder_special` bosses, and every other floor is generated deterministically from the floor number (base creature + element + add-ons, see `js/bosses.js`). Set `MAX_FLOOR` in `config.js` (10 for the prototype, up to 100).
 
 **Unique weapons:** the top rarity (0.05% per gear roll, 0.15% on special floors, boss kills only). Each one is generated on drop (seeded): a one-of-a-kind name and serial, stats above Legendary, one ability and one mild drawback from the pools in `js/loot.js` (`ABILITIES`, `DRAWBACKS`, `FORBIDDEN` pairs). They are never auto-salvaged.
+
+**Talents:** `js/talents.js` — each class has 3 branches of 5 nodes (rank caps 1–3, node *n* needs 2·n points spent in its branch, the last node is a capstone). 1 point per level from level 2 (Scholar adds bonus points). First respec is free, then gold scaled by floor. Effects go through the same pipeline as gear and Unique weapons (DPS, HP, drain, gold/XP, offline cap and efficiency, loot, salvage, inn/shop prices, Well Rested) and apply in offline maths too. Save version 5.
